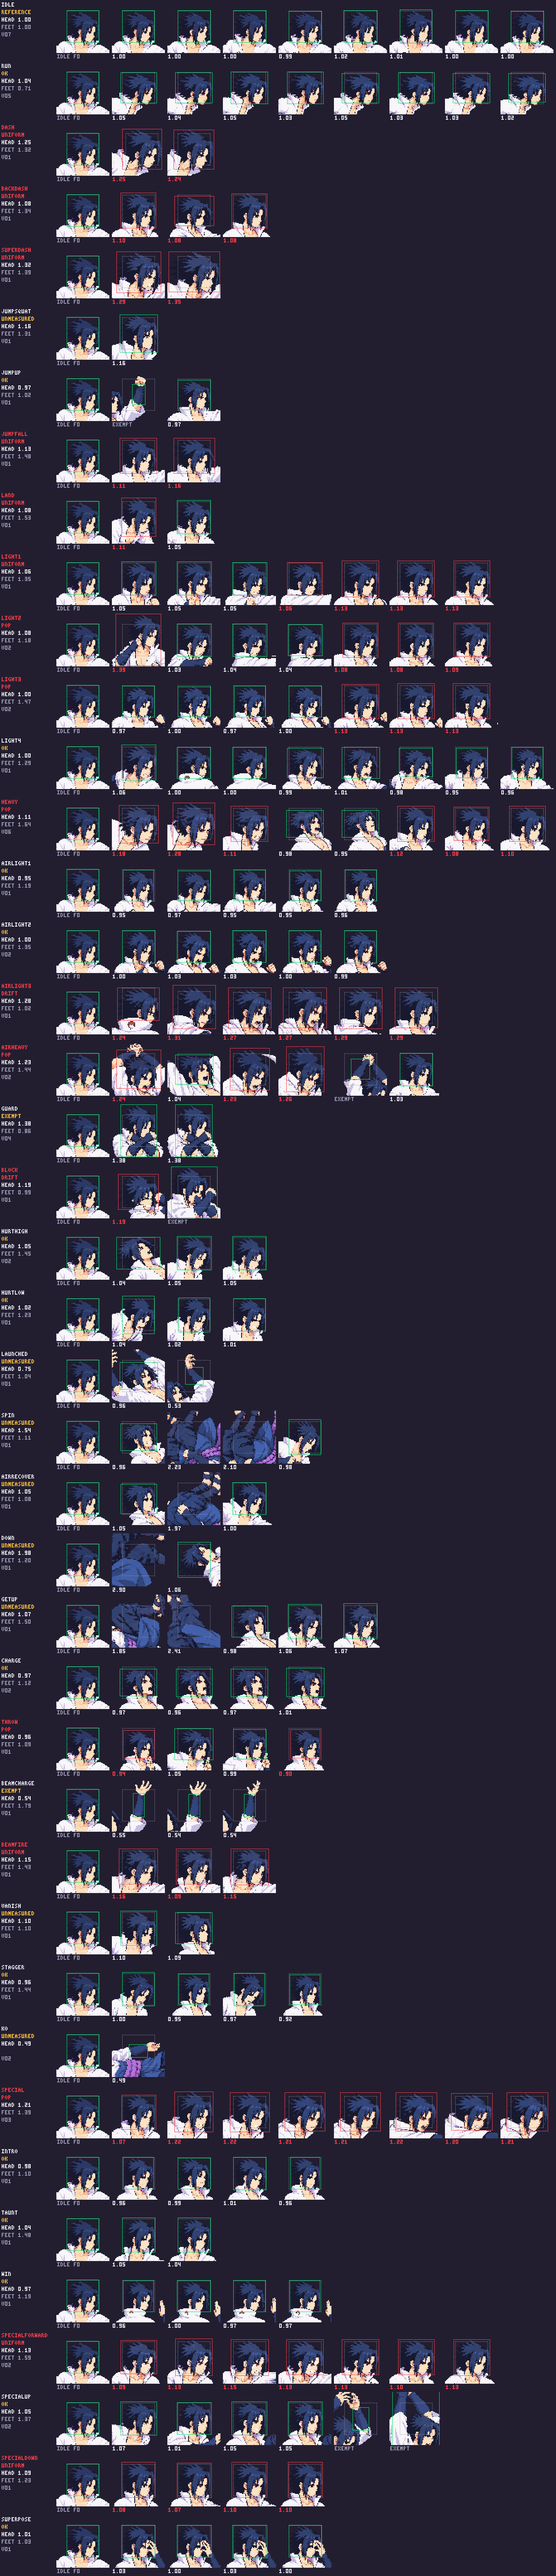
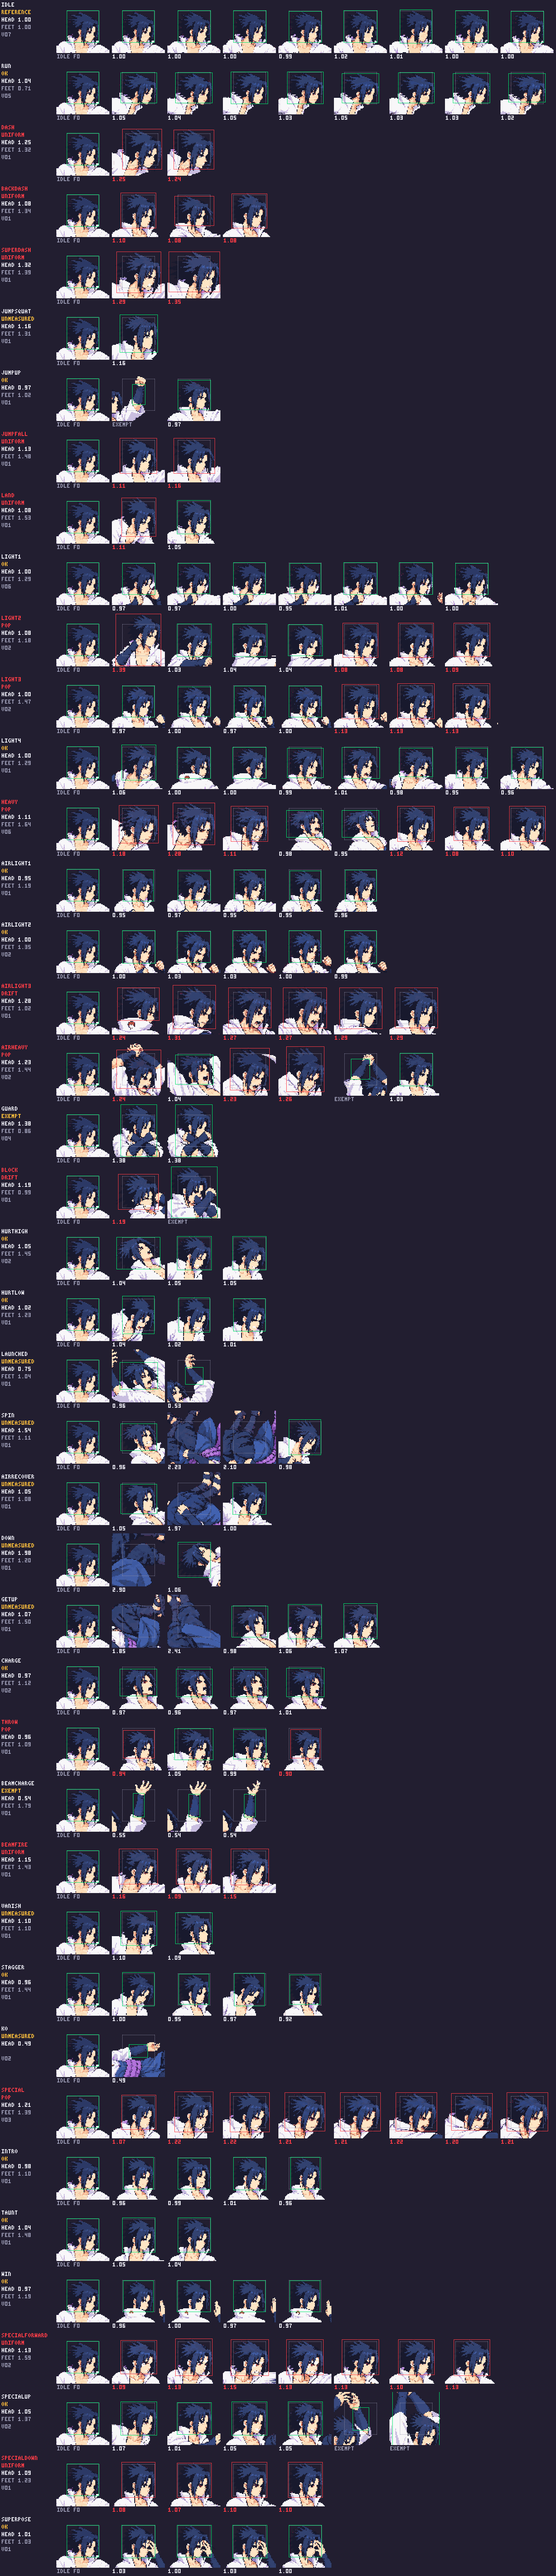
art(sasuke): add title-style lead jab candidate

Changed region(s): [[0.611, 0.2185, 0.886, 0.2497], [0.2139, 0.2185, 0.4888, 0.2497], [0.5194, 0.2185, 0.5805, 0.2497]]

diff --git a/art/characters/sasuke/production/title-style/QA.md b/art/characters/sasuke/production/title-style/QA.md
@@ -21,6 +21,12 @@ User-approved source: `reference/title_style_draft_v01.png`, plus the 256 px neu
 - v05 redrew both parts. Measured B factor 0.9959, final B/A 1.012. The packer's first import revealed the pose max height was about 438 source pixels; the measured idle-head source factor 0.3523 implied a 154 px run envelope. The gate at 154 px found hair ratio 1.06, just beyond tolerance. A 150 px envelope gives scale 0.342 and a numeric pass with no clipping. It was selected from those measurements and then checked visually, not chosen from the run's bounding box by eye.
 - [All eight packed frames](packed-run-v05.png) were extracted from the actual written atlas. Frame bounds are 125–151 px wide and 142–150 px high; every frame stays inside x4..251 and y4..240. The same face, hair, torso, lean build, long legs, sheath and costume persist. The sequence has left/right contacts, passing strides and flight phases; f7 flows into f0. Current candidate is technically packable but still awaits the full-set visual review.
 
+## Light1 v06
+
+- Seven-frame left-lead jab, four poses in A and three in B. Stitch measured B factor 1.0362, scaled A 0.9651, and reported final B/A 1.036; no guessed size factor.
+- `node tools/pack-sprites.mjs sasuke --quantize 48` selected `raw/light1_v06.png` at x0.355 and exited 0. [All seven actual packed cells](packed-light1-v06.png) were inspected. The active fist is the rightmost element at head level in f2/f3, with a small solid smear in f2; f4–f6 retract to the idle guard. Feet remain grounded and hair, torso and leg proportions read consistently.
+- Visual caveat: f1's punch is already near full extension, so the anticipation-to-impact distinction is modest. User final batch review remains pending.
+
 ## Remaining checks
 
 The escalated local Vite adapter served port 5222. The in-app browser showed two Sasuke fighters at the same game depth with the new idle, matched apparent height and grounded feet. The console logged `[sprites] using custom sheet for sasuke (42 animations)` and no errors. The production build passed (80 modules) and the adapter's HTTP self-check returned four 200 responses. Full production, full-character strict scale, contact/hurtbox validation, user image approval, integration and deployment remain open.

diff --git a/art/REVIEW.md b/art/REVIEW.md
@@ -53,6 +53,7 @@ Status values: `needs review` · `approved` · `rejected`.
 
 | date | character | asset | file | version | status | what changed | QA notes |
 |---|---|---|---|---|---|---|---|
+| 2026-10-11 | sasuke | light1 | [light1_v06.png](characters/sasuke/raw/light1_v06.png) | v06 | needs review | Title-style seven-frame high lead jab with active smear and recovery to provisional idle. | Measured stitch B factor 1.0362, 48-color candidate gate exits 0; f1 is near full extension, so the startup/active distinction is modest. [Packed cells](characters/sasuke/production/title-style/packed-light1-v06.png) · [QA](characters/sasuke/production/title-style/QA.md) · [heads sheet](scale/heads-sasuke.png). Full-set final review pending. |
 | 2026-10-11 | sasuke | run | [run_v05.png](characters/sasuke/raw/run_v05.png) | v05 | needs review | Title-style eight-frame run, both halves redrawn with stable head/torso scale after v04 failed. | Measured stitch B factor 0.9959; new-strip scale gate exits 0, no clipping. [Packed loop](characters/sasuke/production/title-style/packed-run-v05.png) · [heads sheet](scale/heads-sasuke.png) · [QA](characters/sasuke/production/title-style/QA.md). Full-set final review pending. |
 | 2026-10-11 | sasuke | run | [run_v04.png](characters/sasuke/raw/_rejected/run_v04.png) | v04 | rejected | First title-style run with four contact/down/passing/flight keys in each part. | Technical reject: head pop and 22/24 px right clipping in flight frames. [Packed QA](characters/sasuke/production/title-style/packed-run-v04-qa.png). |
 | 2026-10-11 | sasuke | guard | [guard_v04.png](characters/sasuke/raw/guard_v04.png) | v04 | needs review | Title-style crossed-arm guard with corrected second-frame anatomy; provisional idle v07 continuity. | Two frames packed. Hair-masked probe is exempt for this version only after native anatomy inspection, not a numeric pass. [QA](characters/sasuke/production/title-style/QA.md) · [packed frames](characters/sasuke/production/title-style/packed-guard-v04-qa.png) · [heads sheet](scale/heads-sasuke.png). Full-set final review pending. |

diff --git a/art/TRACKER.md b/art/TRACKER.md
@@ -138,7 +138,7 @@ Sprite Lab; if his hair adds clearly less height and his head comes out bigger, 
 | 2 | reference/expressions_vNN.png -> expressions.png | - | - | yes | - | approved | v01 | v01 | User approved v01 on 2026-10-09; recorded QA: 8 readable expressions, approved identity; Sharingan marks stylized; raw head scale and magenta differ from prompt; see REVIEW.md |
 | 3 | idle | 8 | - | **yes** | 180 | approved | v07 | v01 | Title-style v07 candidate, needs final batch review; 48-color candidate pack exits 0, measured stitch, native idle 159×177 against pilot combat 155×180. Old v01 remains the approved version. |
 | 4 | run | 8 | - | **yes** | 150 | approved | v05 | v02 | Title-style v05 candidate needs full-set review; v04 was rejected for head pop and clipped flight poses. v05 measured stitch and new-strip gate pass; all eight actual atlas cells inspected. Old v02 remains approved. |
-| 5 | light1 | 7 | 2/2/3 | **yes** | 204 | approved | v01 | v01 | User approved the final batch 2026-10-10 (chat with Claude, PR #9). |
+| 5 | light1 | 7 | 2/2/3 | **yes** | 180 | approved | v06 | v01 | Title-style v06 candidate: measured stitch, new-strip gate and seven-frame visual QA pass; f1's extension is early. Full-set final review pending; old v01 remains approved. |
 | 5 | light2 | 7 | 2/2/3 | **yes** | 204 | approved | v02 | v02 | User approved latest version 2026-10-10; documented QA deviations accepted. Ready for integration. |
 | 5 | light3 | 7 | 2/2/3 | **yes** | 215 | approved | v02 | v02 | User approved latest version 2026-10-10; documented QA deviations accepted. Ready for integration. |
 | 5 | light4 | 8 | 3/2/3 | **yes** | 207 | approved | v01 | v01 | User approved the final batch 2026-10-10 (chat with Claude, PR #9). |

diff --git a/docs/TASKS.md b/docs/TASKS.md
@@ -20,7 +20,7 @@ The single list of work in flight, shared by the user, Claude and Codex. The pro
 
 ## Milestone M2: training, input, hit accuracy (v0.3.0)
 
-**ART-SAS-TITLE-20261011**, Codex, in-progress. files: art/characters/sasuke/, art/manifest.json, art/TRACKER.md, art/REVIEW.md, art/scale/heads-sasuke.png, public/characters/sasuke/, docs/TASKS.md, CHANGELOG.md. User approved title-style draft and scaled pilot, authorized all 42 animations plus 3 UI without intermediate image gates. Branch `art/sasuke-title-production`, real sparse worktree. Idle v07 and guard v04 have native pilot-scale QA; guard v03 was technically rejected. Full batch, live equal-depth check, user final review and Claude integration remain open.
+**ART-SAS-TITLE-20261011**, Codex, in-progress. files: art/characters/sasuke/, art/manifest.json, art/TRACKER.md, art/REVIEW.md, art/scale/heads-sasuke.png, public/characters/sasuke/, docs/TASKS.md, CHANGELOG.md. User approved title-style draft and scaled pilot, authorized all 42 animations plus 3 UI without intermediate image gates. Branch `art/sasuke-title-production`, real sparse worktree. Idle v07, guard v04, run v05 and light1 v06 have native QA; guard v03 and run v04 were technically rejected. Live equal-depth idle/custom-sheet load passed. Full batch, user final review and Claude integration remain open.
 
 Cast proportion review: **ART-CAST-SAMPLES**, Codex, review. User requested a quick sample checkpoint before the full frame audit. Branch `art/cast-scale-samples` compares production-matched sprites, Naruto guard/block/spot-dodge head crops, and approved turnarounds. No art approvals or gameplay changes. Full audit paused for user feedback; Claude owns integration.
 

diff --git a/CHANGELOG.md b/CHANGELOG.md
@@ -11,7 +11,7 @@ Fixed, Security. Reference task ids and ADRs where useful.
 
 ## [Unreleased]
 
-- art(sasuke): start approved title-style redraw with measured idle v07 and corrected guard v04 candidates; preserve pilot references and document the guard mask exemption and pending full-batch QA.
+- art(sasuke): start approved title-style redraw with measured idle v07, corrected guard v04 and lead jab v06 candidates; preserve pilot references and document the guard mask exemption and pending full-batch QA.
 
 - Reverted: the redrawn cast (PRs #61-#64) and its repack, at the user's request (2026-10-11); the game is back on the previous approved art for all four fighters. The redraw stays in history; the next art revision lands as a new PR.
 
